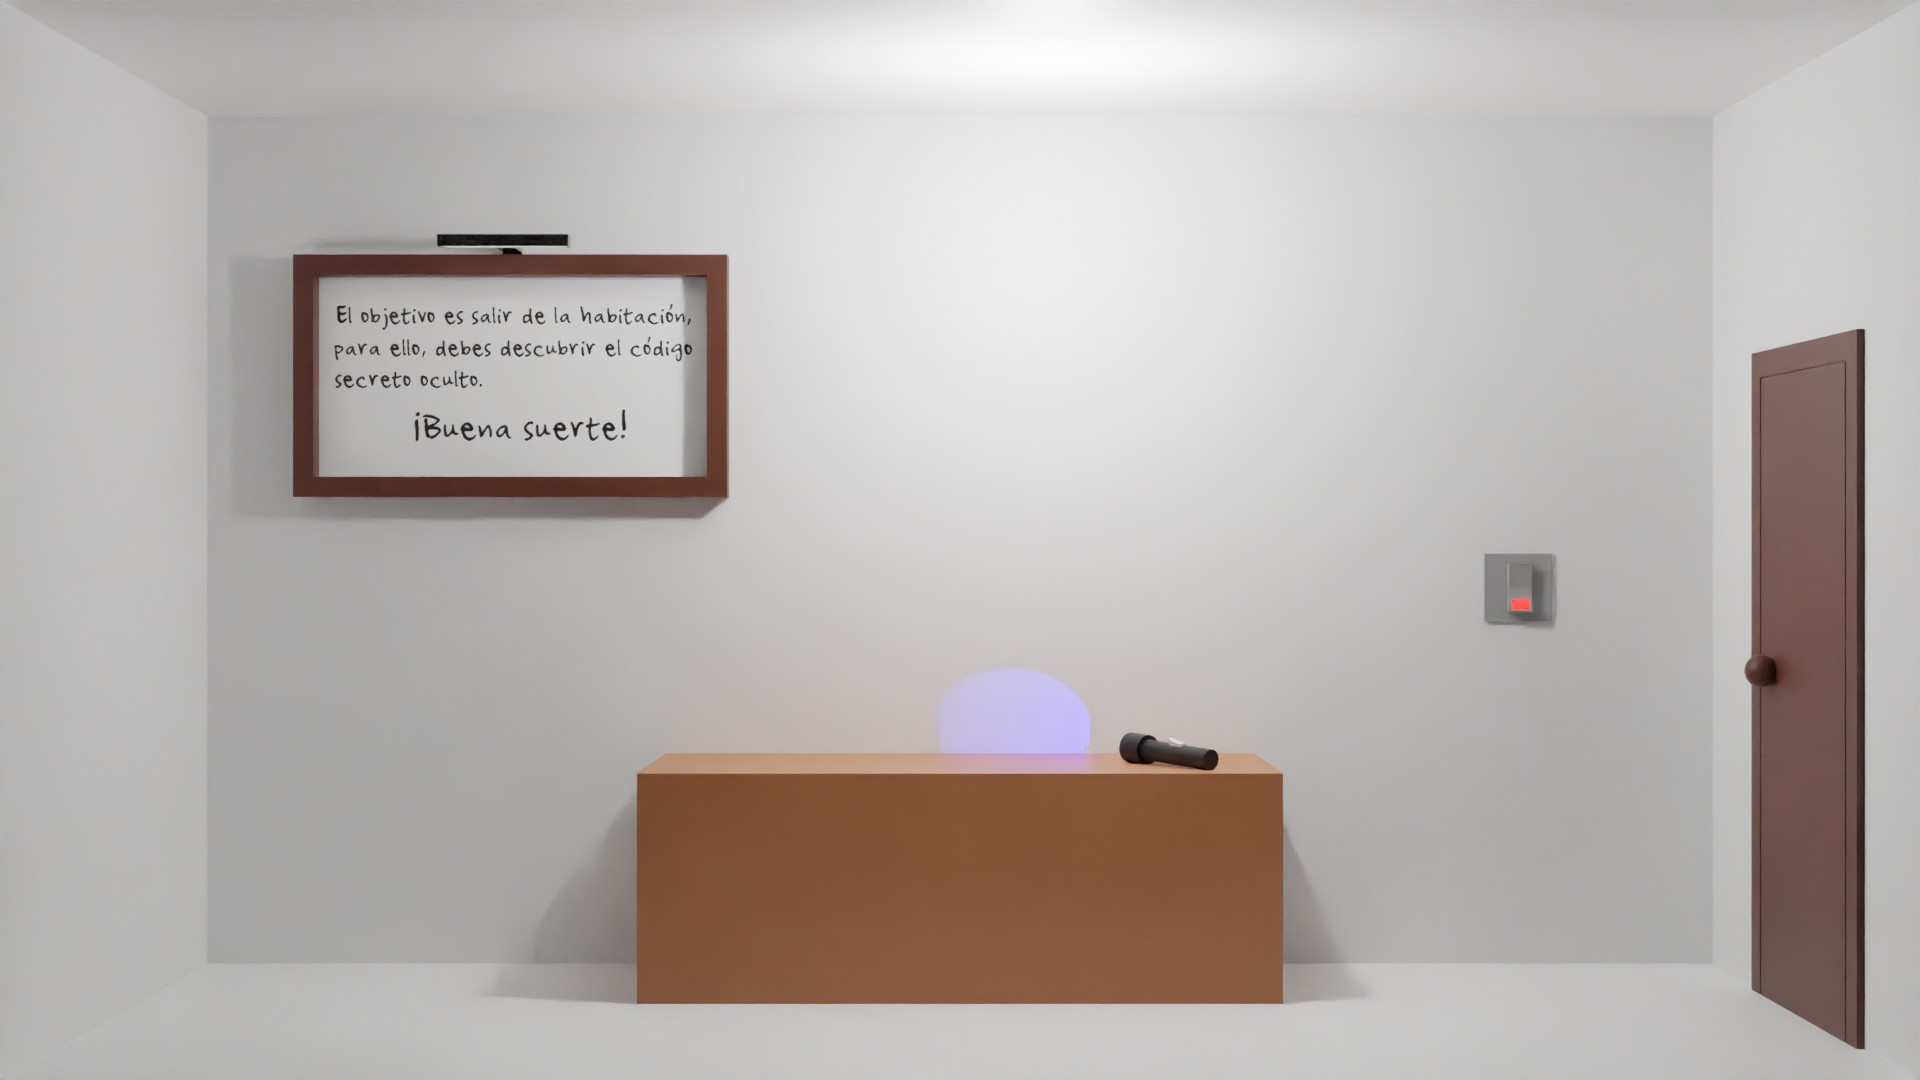
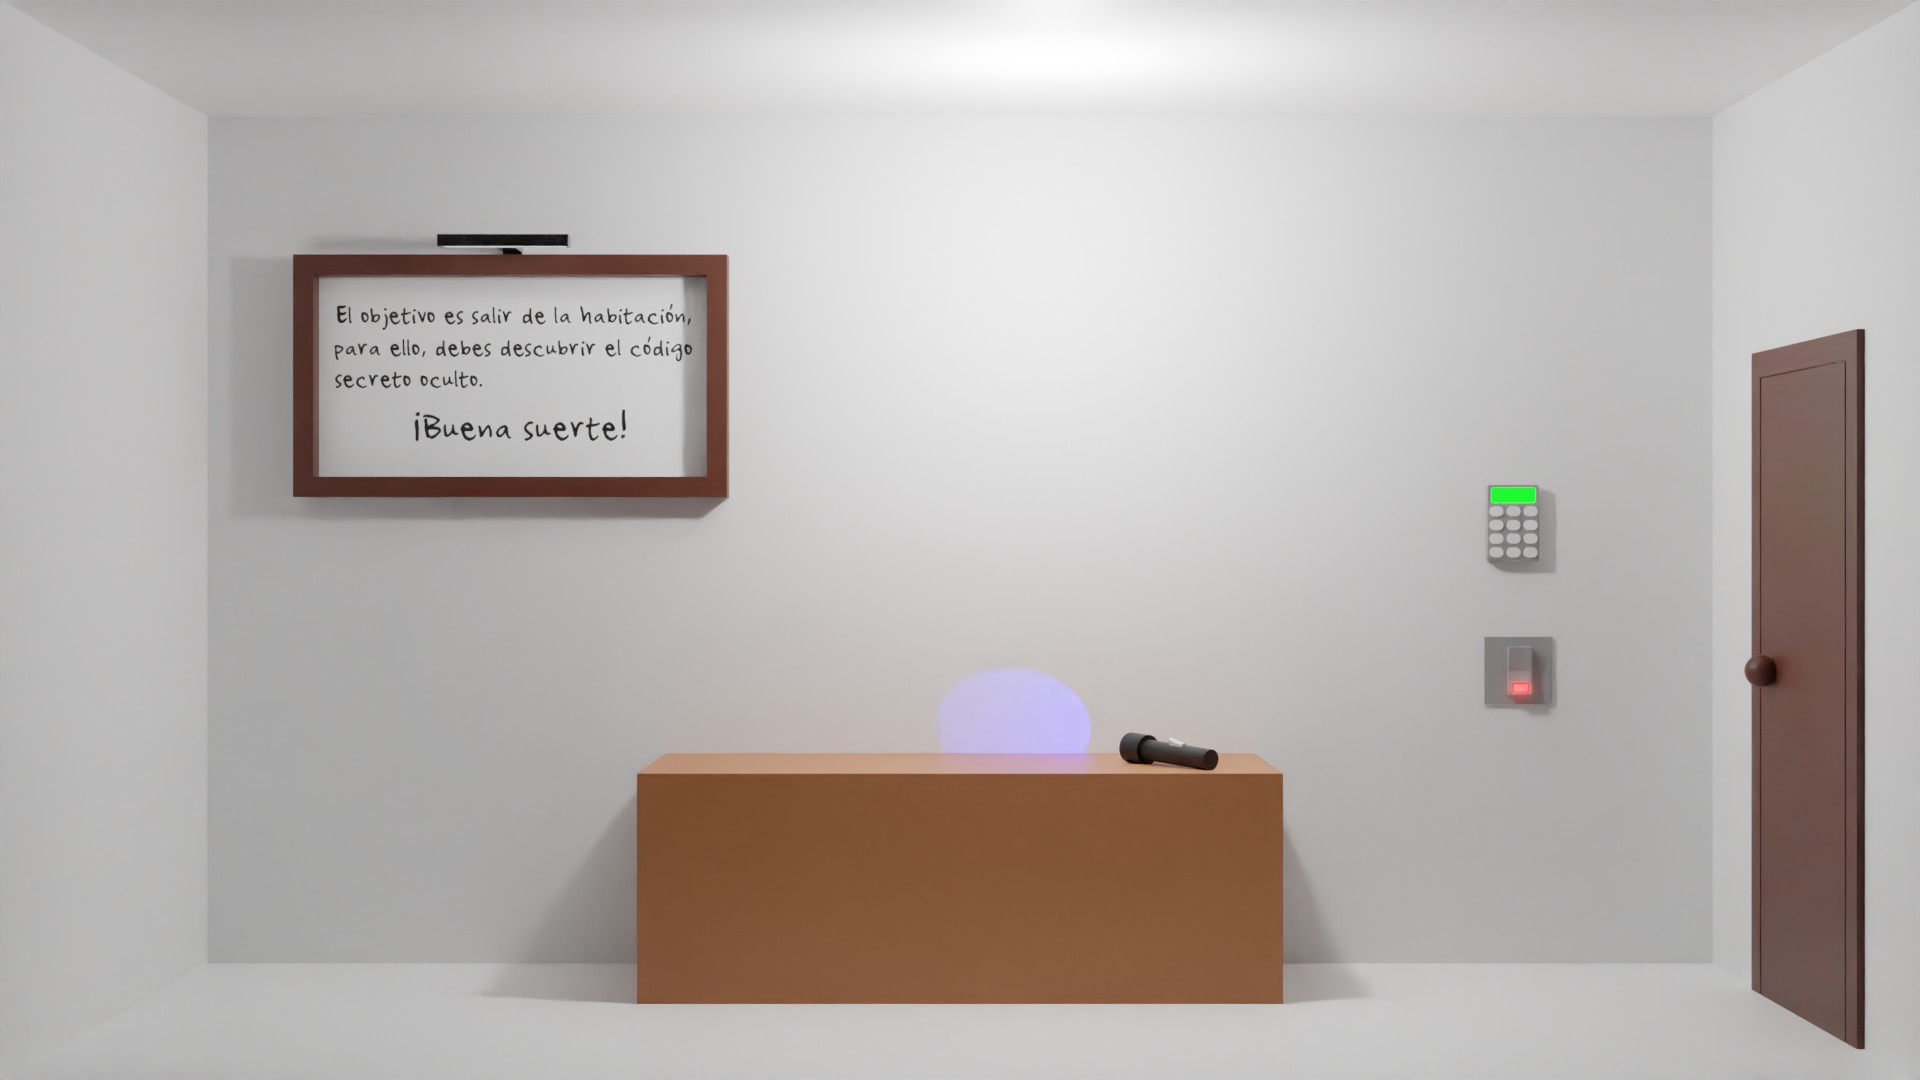
imágenes actualizadas

Changed region(s): [[0.75, 0.4278, 0.8125, 0.6722]]

diff --git a/src/app/app.component.ts b/src/app/app.component.ts
@@ -36,6 +36,7 @@ export class AppComponent {
   zPizarra: number = 0;
   hi: number = 0;
   codigo: boolean = false;
+  salida: boolean = false;
 
 
   /*  pelota(){
@@ -113,7 +114,7 @@ export class AppComponent {
       this.altura = -145;
       this.posicion = 7;
       setTimeout(() => {
-        window.alert("aquí en la bola aparecerá una imagen con el número 42 mismo")
+        window.alert("aquí en la bola aparecerá una imagen con el número 4 mismo")
       }, 1000);
       setTimeout(() => {
         this.ftubos = 0;
@@ -151,7 +152,10 @@ export class AppComponent {
   }
 
   puerta() {
-    /* window.alert("Todavía no puedes salir, tampoco ahora puedes hacer nada para que te deje, esto está en desarrollo") */
+   window.alert("Todavía no puedes salir, tampoco ahora puedes hacer nada para que te deje, esto está en desarrollo")
+    ;
+  }
+  teclas() {
     this.codigo = true;
   }
 

diff --git a/src/app/app.component.html b/src/app/app.component.html
@@ -15,6 +15,7 @@
         <img class="Bantihorario" src="/assets/antihorario.png" (click)="i()" (click)="rotar(-90)" [ngStyle]="{ 'z-index': ftubos}">
         <img class="Bhorario" src="/assets/horario.png" (click)="d()" (click)="rotar(90)" [ngStyle]="{ 'z-index': ftubos}">
         <div class="puerta" (click)="puerta()"></div>
+        <div class="codigo" (click)="teclas()"></div> 
         <div class="interruptor" (click)="interruptor()"></div>
         <div class="linterno" (click)="linterna()"[ngStyle]="{'z-index': linternaUV}" ></div>
         <div class=" reflejoPizzara" [ngStyle]="{ 'background': pizarra, 'z-index':zPizarra}"></div>

diff --git a/src/app/codigo/codigo.component.ts b/src/app/codigo/codigo.component.ts
@@ -12,7 +12,7 @@ export class CodigoComponent {
   resultado: string = ''; // su resultado
 
   pulsarBoton(boton: string) {
-    if ( /* Number(this.resultado) <= 9999 */ this.resultado.length < 5 ){
+    if ( /* Number(this.resultado) <= 99 */ this.resultado.length < 3 ){
   this.resultado += boton;  }
   }
 
@@ -22,9 +22,9 @@ export class CodigoComponent {
   }
 
   verificar(){
-    if (this.resultado == "74286"){
+    if (this.resultado == "748"){
     window.alert("Erputoamo")}
-    else if (this.resultado !== "74286"){
-      window.alert("fallo")}
+    else if (this.resultado !== "748"){
+      window.alert("fallo")}0
   }
 }

diff --git a/src/app/app.component.css b/src/app/app.component.css
@@ -106,9 +106,20 @@
 .interruptor {
   z-index: 6;
   position: absolute;
-  left: calc(50% + 380px);
-  top: calc(50% + 5px);
- /*  border: 5px solid black; */
+  left: calc(50% + 375px);
+  top: calc(50% + 70px);
+       /* border: 5px solid black; */
+  height: 65px;
+  width: 65px;
+  cursor: url(/assets/dedo.png), auto;
+}
+
+.codigo {
+  z-index: 2;
+  position: absolute;
+  left: calc(50% + 375px);
+  top: calc(50% - 40px);
+       /* border: 5px solid black; */
   height: 65px;
   width: 65px;
   cursor: url(/assets/dedo.png), auto;

diff --git a/src/app/codigo/codigo.component.css b/src/app/codigo/codigo.component.css
@@ -1,10 +1,4 @@
-.fondo{
-    position: absolute;
-    height: 100vh;
-    width: 100vw;
-    background-color: rgba(0, 0, 0, 0.473);
-    z-index: 7;
-}
+
 
 .Caja{
     border: 2px solid black;
@@ -48,7 +42,7 @@
 
 }
 
-#resultado{  /* descubrir por qué tengo asterisco */
+#resultado{ 
     border: 1px solid black;
     margin: 10px;
     border-radius: 10px;
@@ -61,6 +55,6 @@
     color: white;
     font-family: Calculadora;
     text-align:left;
-    padding-left: 50px;
+    padding-left: 85px;
     height: 90px;
 }

diff --git a/src/app/codigo/codigo.component.html b/src/app/codigo/codigo.component.html
@@ -39,4 +39,3 @@
       E
     </button>
   </div>
-<div class="fondo"></div>
